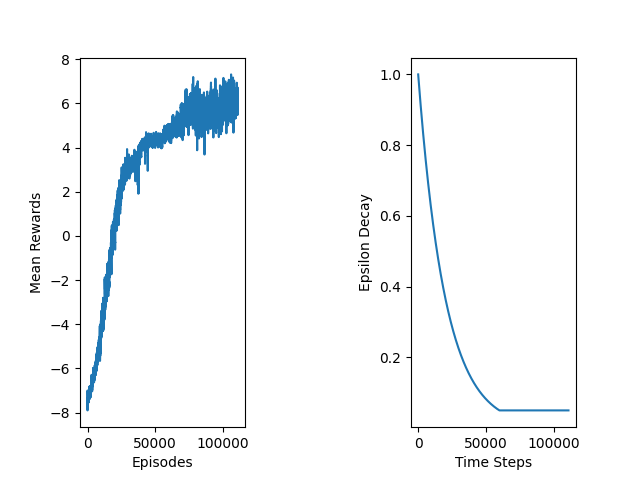
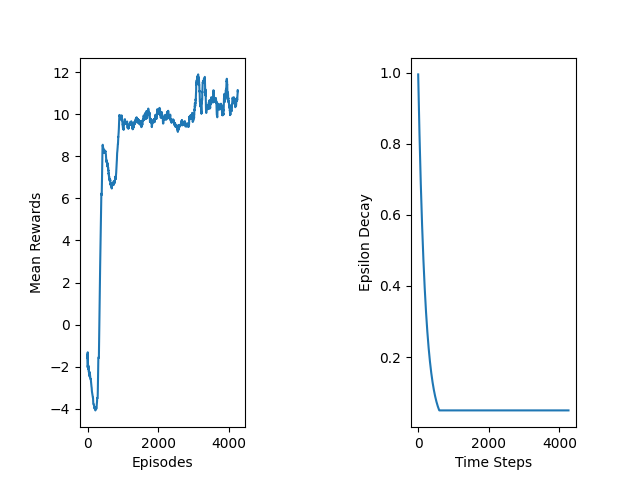
Update project files

diff --git a/agent.py b/agent.py
@@ -230,6 +230,11 @@ class Agent():
                     action.item()
                 )
 
+                # ===== REWARD SHAPING: Add bonus for surviving =====
+                if not terminated:
+                    reward = reward + 0.1
+                # ===== END REWARD SHAPING =====
+
                 episode_reward += reward
 
                 # Convert to tensors
@@ -466,6 +471,6 @@ if __name__ == '__main__':
     )
 
     dql.run(
-    is_training=args.train,
-    render=True
-)
+        is_training=args.train,
+        render=True
+    )
